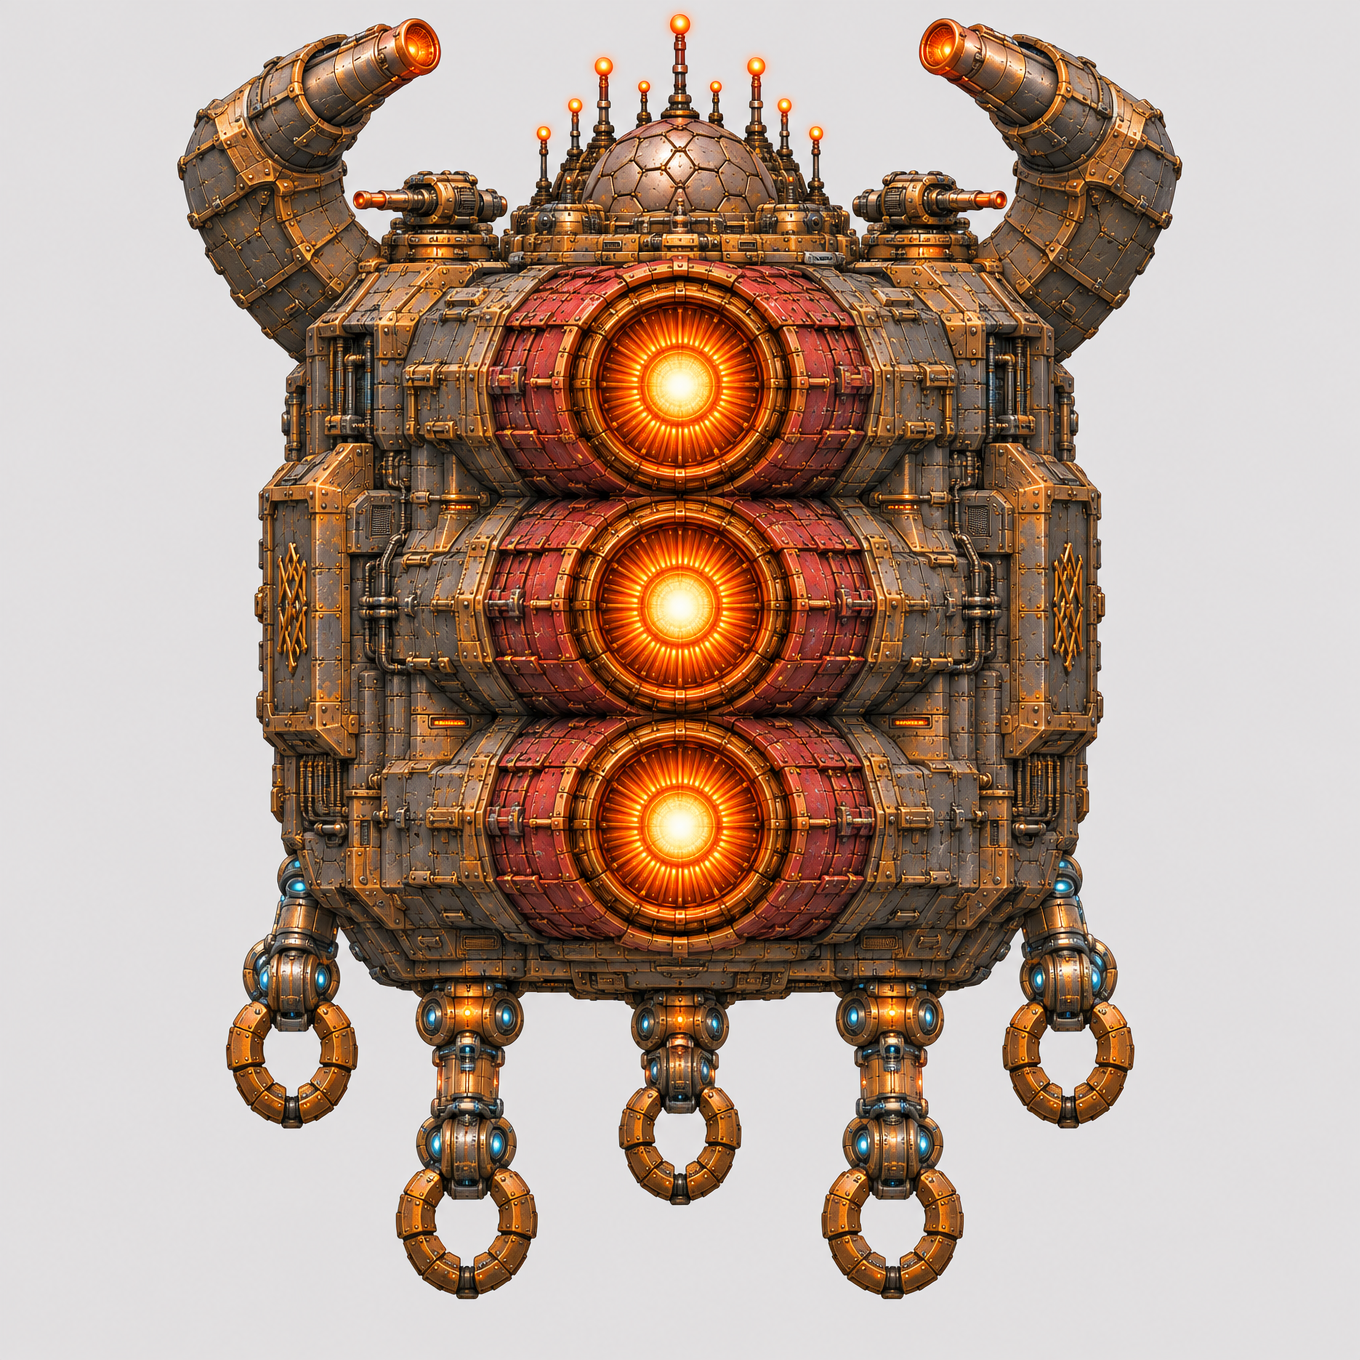
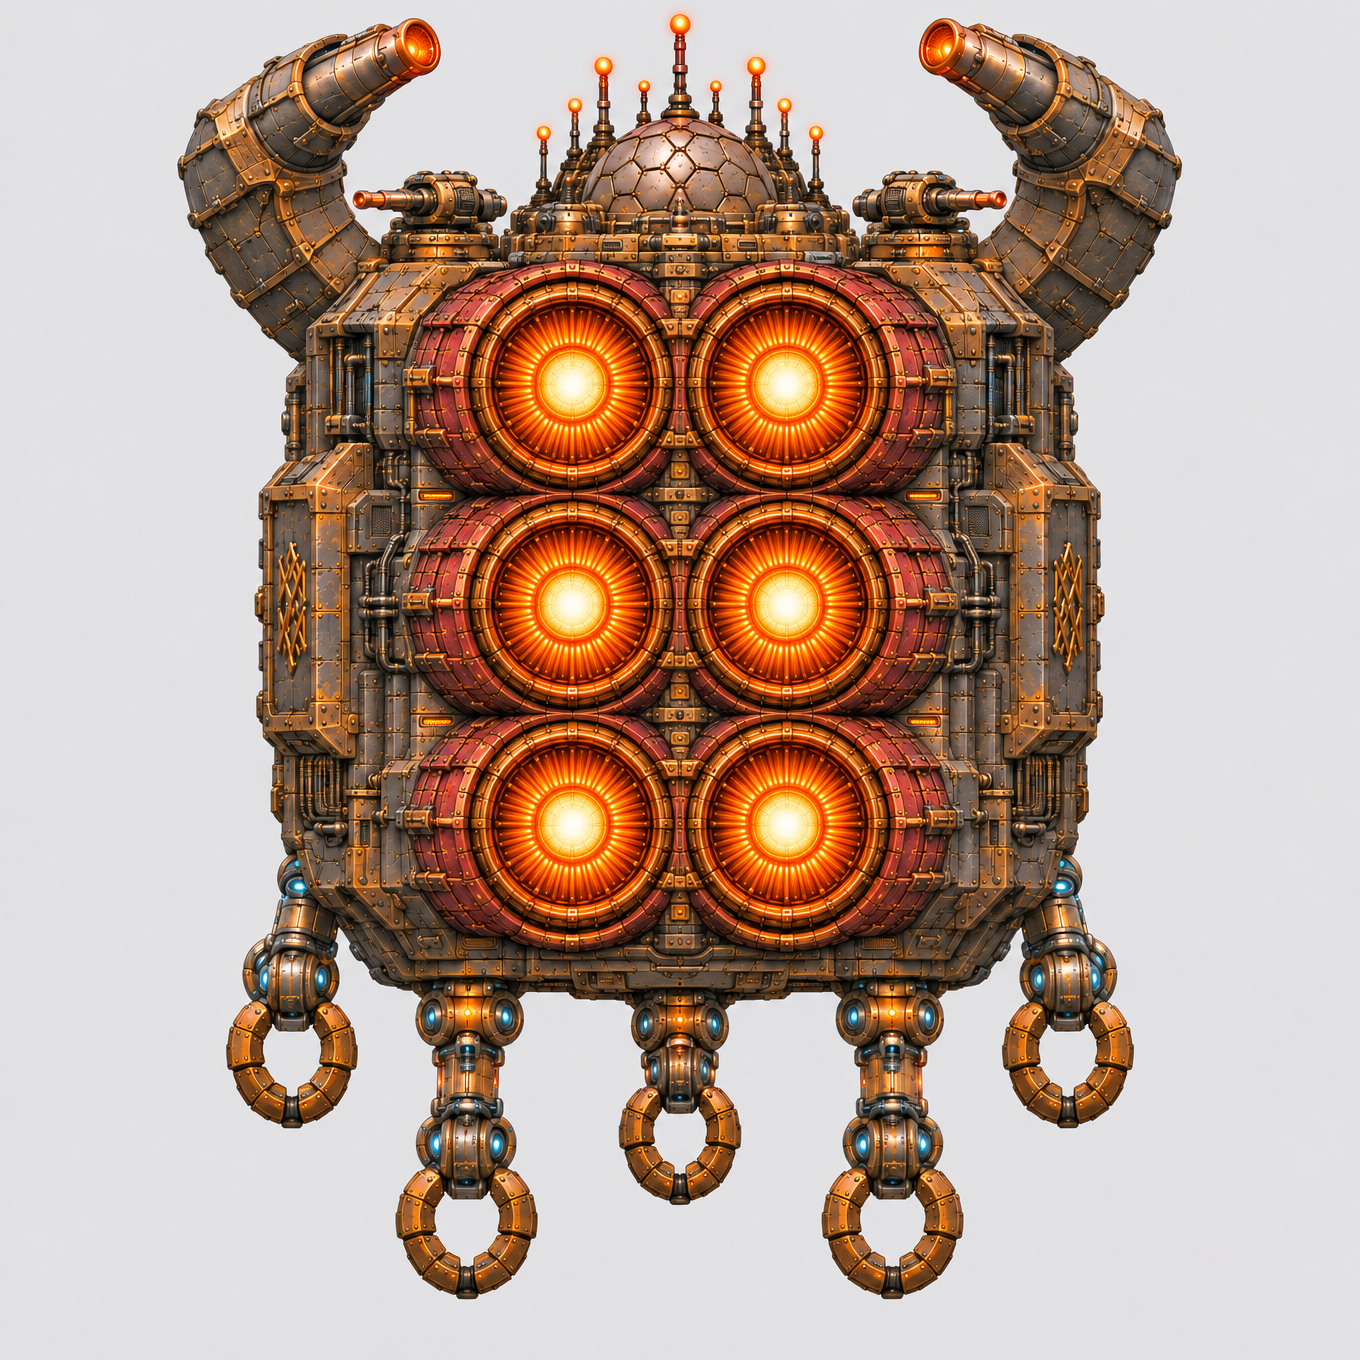
Brokkr's Rest 2K views: six afterburners, two columns of three (Aaron, round 156); craft views approved
Claude-Session: https://claude.ai/code/session_018uw49qxrYcPbfx6dYbzuS6

Changed region(s): [[0.1235, 0.0, 0.8647, 0.9574], [0.7721, 0.8029, 0.8029, 0.8338]]

diff --git a/views/brokkrs_rest_2k/README.md b/views/brokkrs_rest_2k/README.md
@@ -3,4 +3,5 @@
 - From the approved views sheet `zKELBlwaMbiAuh4MVpHz` (round 100 F v3, redrawn with empty bays, 23 Nov), each view redrawn alone at **high** quality, 2K (Aaron, D-B1). Nothing added: the Forge Fire guns are the twin cannons already on the horn tips of the approved design (D-B10).
 - OpenArt (GPT Image 2.6 Sunburst, image2image, high, 2K), project XvLivykk4mOojSmcpy9Y, 24 Nov 21:50: front `uCAL9VbzqYIKo7BzLJxr`, left `PxOAbfQWxIC7ZhMFmjki`, back `mNbHXUf3Mx23kNs3mvmt`, top `qqW1qZAHZ2EhZDCWzgOE`.
 - Size: 300 x 112 x 108 m. Tripo gets front, left and back; top is for checking.
-- Waiting on Aaron's review (Driftwright docs/asset-feedback round 156).
+- **Six afterburners** (Aaron, round 156, 24 Nov: "Six total afterburners in the back"; 22:30: two columns of three). Back and top redrawn from the drafts with only that change: back `oQAjtOkGpYlQnNnpb6hl`, top `lNBmS6LbraLDn0D5OsSd`. The left view is unchanged (the near column of three is all that shows from the side), and so is the front.
+- **Approved** with that change (round 156). Next: the Tripo build (TB-1), on Aaron's credit go-ahead.

diff --git a/views/picker/README.md b/views/picker/README.md
@@ -3,4 +3,4 @@
 - From the approved concept: round 98 miner C, blue (r98_miner_d), resource DCPE9H3PCXs1lGl0R17h. Each view redrawn alone, nothing added or redesigned.
 - OpenArt (GPT Image 2.6 Sunburst, image2image, low, 1K), project XvLivykk4mOojSmcpy9Y, 24 Nov 21:50 to 22:10: front IRT6wCC7MQL7Up3jhgeU, left 8LFEcgN8uSF2eonC60Dw, back n0KZDi2euN0fkEB7lInY, top 4lk4CdedCSAdmdz0R0ig (left, back and top redrawn once; the first tries repeated the front).
 - Size: 3 m long, blue glow.
-- Waiting on Aaron's review (Driftwright docs/asset-feedback round 156).
+- **Approved as is** (Aaron, round 156, 24 Nov). Next: the Tripo build, on Aaron's credit go-ahead.

diff --git a/views/shuriken/README.md b/views/shuriken/README.md
@@ -3,4 +3,4 @@
 - From the approved concept: round 98 star C, blue (r98_star_d), resource jnXThn3UmxiMGOBxSDKV. Each view redrawn alone, nothing added or redesigned.
 - OpenArt (GPT Image 2.6 Sunburst, image2image, low, 1K), project XvLivykk4mOojSmcpy9Y, 24 Nov 21:50 to 22:10: front 0SQloivHdfYOpTJ6j8AH, left w1uzxhJIjZe0APHhwuNd, back NZKMM2pi4x2pLAGIJ9gl, top gRgetcAeZcOIcdWo9wEJ.
 - Size: 5 m across, 1.5 m thick, blue glow.
-- Waiting on Aaron's review (Driftwright docs/asset-feedback round 156).
+- **Approved as is** (Aaron, round 156, 24 Nov). Next: the Tripo build, on Aaron's credit go-ahead.

diff --git a/views/pounder/README.md b/views/pounder/README.md
@@ -3,4 +3,4 @@
 - From the approved concept: round 98 bomber B, resource jeJmrFdiGrHng2GCTBvT. Each view redrawn alone, nothing added or redesigned.
 - OpenArt (GPT Image 2.6 Sunburst, image2image, low, 1K), project XvLivykk4mOojSmcpy9Y, 24 Nov 21:50 to 22:10: front shJv3vvHC9CSU4wY6Z5A, left VSmMf1wMLfRbwZxKK1fY, back XswDFpVpWwe7eoWV2XzR, top EBE4omzHp5uyuAqAaNg1.
 - Size: 18 x 12 x 5 m, orange glow.
-- Waiting on Aaron's review (Driftwright docs/asset-feedback round 156).
+- **Approved as is** (Aaron, round 156, 24 Nov). Next: the Tripo build, on Aaron's credit go-ahead.
